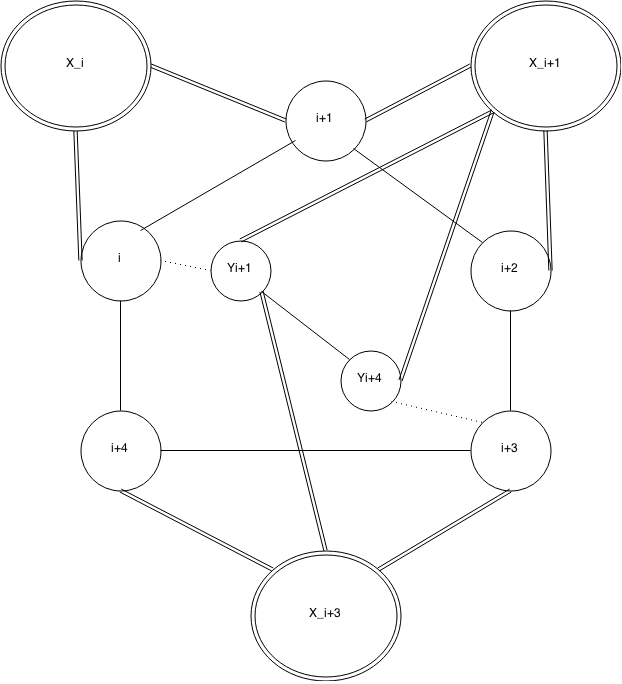
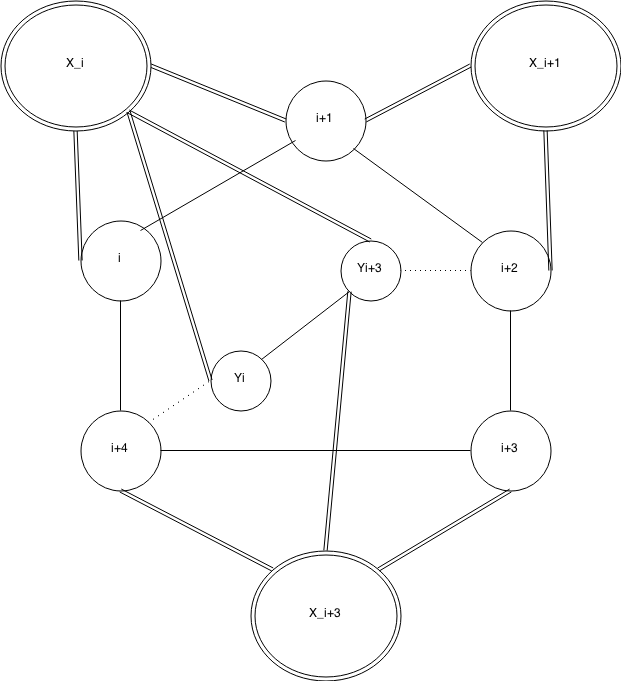
Finished off all the cases

diff --git a/latex/CoK4-Line-Graph-Cases.tex b/latex/CoK4-Line-Graph-Cases.tex
@@ -52,7 +52,7 @@ All the cases for $(\overline{K_4})$-free line graphs with $Y_i$ vertices
 
 
 \section{Notation}\label{sec:intro}
-Assume $G$ is $\overline{K_4}$-free line graph. Let $X_i$ denote the set of $2$-vertices on vertices $i,i+1$ of a $C_5$ and $x_i$ denote some vertex $\in X_i$. Let $Y$ denote the set of $4$-vertex and $Y_i$ denote the set of $4$-vertices on vertices $i, i+1,i+2,i+3$. The following Lemmas were already proven.
+Assume $G$ is $\overline{K_4}$-free line graph which contains an induced $C_5$. Let $X_i$ denote the set of $2$-vertices on vertices $i,i+1$ of a $C_5$ and $x_i$ denote some vertex $\in X_i$. Let $Y$ denote the set of $4$-vertex and $Y_i$ denote the set of $4$-vertices on vertices $i, i+1,i+2,i+3$. The following Lemmas were already proven.
 
 \begin{Lemma}\label{lem:c5-4vertex-bounded}
 $|Y_i| \leq 1$
@@ -90,12 +90,12 @@ If only $X_i \neq \phi,\; X_{i+2} \neq \phi,\; X_{i+3} \neq \phi$ then $ \omega(
 \begin{Observation}\label{obs:xi-g}
 If $|X_i| > |X_j| \geq |X_\ell| \geq 3$ then $X_j \cup X_\ell$ can be colored using at most $|X_i| - 1$ colors
 \end{Observation} 
-\noindent {\it Proof.} By Lemma \ref{lem:xi-clique} and provides at least $|X_i|$ colors for $G$. Since by Lemma \ref{lem:2xi-cojoins-xj} no vertex $\in X_j$ can have two neighbors $\in X_i$ and cannot share a neighbor with another vertex $\in X_j$. By Lemma \ref{lem:xi-neighbor-adjacent} there may be $C_3$ but no $P_3$ contain in $X_i \cup X_j \cup X_\ell$ Let $x_j,_a$ denote a vertex from $X_j,\; a \in {0, 1,..|X_j|}$, $x_i,_a$ denote a vertex from $X_i,\; a \in {0, 1,.., |X_i}$ and let $x_\ell,_a$ denote a vertex from $X_\ell, \; a \in {0, 1,.., |X_\ell|}$. Assume that $x_i,_ax_j,_a \in E,\; x_i,_ax_\ell,_a \in E,\;$ and $ x_j,_ax_\ell,_a \in E$. Can color $x_\ell,_a$ with $x_i,_{b},\; b = (a +1) mod (|X_i| - 1)$ and can color $x_j,_a$ with $x_i,_{b},\; b = a+2 mod(|X_i| - 1)$.  $X_j \cup X_\ell$ was colored with $|X_i| - 1$ colors.
+\noindent {\it Proof.} By Lemma \ref{lem:xi-clique} and provides at least $|X_i|$ colors for $G$. Since by Lemma \ref{lem:2xi-cojoins-xj} no vertex $\in X_j$ can have two neighbors $\in X_i$ and cannot share a neighbor $\in X_i$ with another vertex $\in X_j$. By Lemma \ref{lem:xi-neighbor-adjacent} $X_i \cup X_j \cup X_\ell$ cannot contain an induced $P_3$. Let $x_j,_a$ denote a vertex from $X_j,\; a \in {0, 1,..|X_j|}$, $x_i,_a$ denote a vertex from $X_i,\; a \in {0, 1,.., |X_i}$ and let $x_\ell,_a$ denote a vertex from $X_\ell, \; a \in {0, 1,.., |X_\ell|}$. Assume that $x_i,_ax_j,_a \in E,\; x_i,_ax_\ell,_a \in E,\;$ and $ x_j,_ax_\ell,_a \in E$. $x_\ell,_a$ can a color with $x_i,_{b},\; b = (a +1) mod (|X_i| - 1)$ and $x_j,_a$ share a color with $x_i,_{b},\; b = a+2 mod(|X_i| - 1)$.  $X_j \cup X_\ell$ was colored with $|X_i| - 1$ colors.
 
 \begin{Observation}\label{obs:all-equal}
 If $|X_i| = |X_j| = |X_\ell| \geq 3$ then $X_j \cup X_i$ can be colored using at most $|X_i|$ colors
 \end{Observation}
-\noindent {\it Proof.} By Lemma \ref{lem:xi-clique} and provides at least $|X_i|$ colors for $G$. Since by Lemma \ref{lem:2xi-cojoins-xj} no vertex $\in X_j$ can have two neighbors $\in X_i$ and cannot share a neighbor with another vertex $\in X_j$. By Lemma \ref{lem:xi-neighbor-adjacent} there $X_i \cup X_j \cup X_\ell$ cannot contain an induced $P_3$. Let $x_j,_a$ denote a vertex from $X_j,\; a \in {0, 1,..|X_j|}$, $x_i,_a$ denote a vertex from $X_i,\; a \in {0, 1,.., |X_i}$ and let $x_\ell,_a$ denote a vertex from $X_\ell, \; a \in {0, 1,.., |X_\ell|}$. Assume that $x_i,_ax_j,_a \in E,\; x_i,_ax_\ell,_a \in E,\;$ and $ x_j,_ax_\ell,_a \in E$. Can color $x_\ell,_a$ with $x_i,_{b},\; b = (a +1) mod (|X_i|)$ and can color $x_j,_a$ with $x_i,_{b},\; b = a+2 mod(|X_i|)$.  $X_j \cup X_\ell$ was colored with $|X_i|$ colors.
+\noindent {\it Proof.} By Lemma \ref{lem:xi-clique} and provides at least $|X_i|$ colors for $G$. Since by Lemma \ref{lem:2xi-cojoins-xj} no vertex $\in X_j$ can have two neighbors $\in X_i$ and cannot share a neighbor $\in X_i$ with another vertex $\in X_j$. By Lemma \ref{lem:xi-neighbor-adjacent} $X_i \cup X_j \cup X_\ell$ cannot contain an induced $P_3$. Let $x_j,_a$ denote a vertex from $X_j,\; a \in {0, 1,..|X_j|}$, $x_i,_a$ denote a vertex from $X_i,\; a \in {0, 1,.., |X_i}$ and let $x_\ell,_a$ denote a vertex from $X_\ell, \; a \in {0, 1,.., |X_\ell|}$. Assume that $x_i,_ax_j,_a \in E,\; x_i,_ax_\ell,_a \in E,\;$ and $ x_j,_ax_\ell,_a \in E$. Can color $x_\ell,_a$ with $x_i,_{b},\; b = (a +1) mod (|X_i|)$ and can color $x_j,_a$ with $x_i,_{b},\; b = a+2 mod(|X_i|)$.  $X_j \cup X_\ell$ was colored with $|X_i|$ colors.
 
 \begin{Observation}\label{obs:xi-e-g}
 If $|X_i| = |X_j| > |X_\ell| \geq 3$ then $X_j$  can be colored using $|X_i|$ colors and $X_\ell$ can be colored using at most $|X_i| - 1$ colors.
@@ -103,7 +103,7 @@ If $|X_i| = |X_j| > |X_\ell| \geq 3$ then $X_j$  can be colored using $|X_i|$ co
 \noindent {\it Proof.} By Lemma \ref{lem:xi-clique} and provides at least $|X_i|$ colors for $G$. Since by Lemma \ref{lem:2xi-cojoins-xj} no vertex $\in X_j$ can have two neighbors $\in X_i$ and cannot share a neighbor with with another vertex $\in X_j$. By Lemma \ref{lem:xi-neighbor-adjacent} there $X_i \cup X_j \cup X_\ell$ cannot contain an induced $P_3$. Let $x_j,_a$ denote a vertex from $X_j,\; a \in {0, 1,..|X_j|}$, $x_i,_a$ denote a vertex from $X_i,\; a \in {0, 1,.., |X_i}$ and let $x_\ell,_a$ denote a vertex from $X_\ell, \; a \in {0, 1,.., |X_\ell|}$. Assume that $x_i,_ax_j,_a \in E,\; x_i,_ax_\ell,_a \in E,\;$ and $ x_j,_ax_\ell,_a \in E$. $x_\ell,_a$ can share a color with $x_i,_{b},\; b = (a +1) mod (|X_i|)$ and $x_j,_a$ share a color with $x_i,_{b},\; b = a+2 mod(|X_i|)$.  Since $|X_\ell| < |X_i|$ then $x_i,_0$ shares no color with a vertex $\in X_\ell$ so $X_\ell$ was colored with $|X_i| - (|X_i| - |X_\ell|)$ colors. $X_j$ was colored using $|X_i|$ colors. 
 
 \begin{Observation}\label{obs:clique-chi}
-If $\omege(G - Y) = \omega(G) - x, x \in {1,2}$ and $\chi(Y) = x$ then $\chi(G) = \omega(G)$.
+If $\omega(G - Y) = \omega(G) - x, x \in {1,2}$ and $\chi(Y) = x$ then $\chi(G) = \omega(G)$.
 \end{Observation}
 \noindent {\it Proof.} By Lemma \ref{lem:coloring-xi-xi2-xi3} $G - Y$ can be colored with $\omega(G - Y)$ colors. If $\omega(G - Y) = \omega(G) - x$ and $\chi(Y) = x$ then $ \chi(G) = \chi(G - Y) + \chi(Y) = (\omega(G - Y) - x)  + x$ making $\chi(G) = \omega(G)$.
 
@@ -117,23 +117,23 @@ $X_i \; \circled{0} \; Y_{i+1} \cup Y_{i+2} \cup Y_{i+4}$
 \end{Observation}
 \noindent {\it Proof.} Suppose $x_iy_{i+1} \in E$ then there is a $claw (y_{i+1}x_i, y_{i+1}i+2,y_{i+1}i+4)$. Suppose $x_iy_{i+4} \in E$ then there is a $claw (y_{i+4}i+4, y_{i+4}i+2, y_{i+4}x_i)$. Suppose $x_iy_{i+2} \in E$ then there is a $claw (y_{i+2}i+2, y_{i+2}i+4, y_{i+2}x_i)$.
 
-For the following assume $|X_i| \geq 3,\, j \in {0,1,2,3,4}$ otherwise $d(x_i) \leq 1 + 2 + 2$ since by Lemma \ref{lem:xi-neighbor-adjacent} $x_i$ can have one neighbor in each $X_j,\; i+j$, and by Observation \ref{obs:xi-cojoins-yi} $x_i$ has two nieghbors who are a $4$-vertex and has one neighbor $\in X_i$. By Lemma \ref{lem:three-consecutive-xi} the case with the most $|X_i| \geq 3$ is when $X_i \neq \phi,\; X_{i+1} \neq \phi,\; X_{i+2} = \phi,\; X_{i+3} \neq \phi$ and $X_{i+4} = \phi$. In this case $d(y_{i+2}) \leq 2 + 4$ since by Lemma \ref{lem:yi-cojoin-yi1} is adajacent to $y_{i}$ and $y_{i+4}$ and by Observation \ref{obs:xi-cojoins-yi} $y_{i+2} \; \circled{0} X_i \cup X_{i+1} \cup X_{i+3}$. Since assuming $\omega (G) \geq 10$ then can dis-regard $y_{i+2}$.
+For the following assume $|X_i| \geq 3,\, i \in {0,1,2,3,4}$ otherwise $d(x_i) \leq 1 + 2 + 2$ since by Lemma \ref{lem:xi-neighbor-adjacent} $x_i$ can have one neighbor $\in X_j,\; i \neq j $, and by Observation \ref{obs:xi-cojoins-yi} $x_i$ has two neighbors who are a $4$-vertex and has one neighbor $\in X_i$. By Lemma \ref{lem:three-consecutive-xi} the case with the most $|X_i| \geq 3$ is when $X_i \neq \phi,\; X_{i+1} \neq \phi,\; X_{i+2} = \phi,\; X_{i+3} \neq \phi$ and $X_{i+4} = \phi$. In this case $d(y_{i+2}) \leq 2 + 4$ since by Lemma \ref{lem:yi-cojoins-yi1} is adajacent to $y_{i}$ and $y_{i+4}$ and by Observation \ref{obs:xi-cojoins-yi} $y_{i+2} \; \circled{0} X_i \cup X_{i+1} \cup X_{i+3}$. Since assuming $\omega (G) \geq 10$ then can dis-regard $y_{i+2}$.
 
 \begin{Observation}\label{obs:four-yi} 
 $|Y_i| = |Y_{i+1}| = |Y_{i+3}| = |Y_{i+4} =  1$
 \end{Observation}
 \begin{minipage}{0.5\textwidth}% adapt widths of minipages to your needs
-	\noindent {\it Proof.} By Lemmas \ref{lem:yi-cojoins-yi1} and \ref{lem:yi-joins-yi2} $\chi (Y) = 2$ and Observation \ref{obs:xi-joins-yi} $\omega(G - Y) = \omega(G) - 2$. Since $\omega(G - Y) = \omega(G) - 2 $ and $\chi(Y) = 2$ then by Observation \ref{obs:clique-chi} $\chi(G) = \omega(G)$.
+	\noindent {\it Proof.} By Lemmas \ref{lem:yi-cojoins-yi1} and \ref{lem:yi-joins-yi2} $\chi (Y) = 2$ and by Observation \ref{obs:xi-joins-yi} $\omega(G - Y) = \omega(G) - 2$. Since $\omega(G - Y) = \omega(G) - 2 $ and $\chi(Y) = 2$ then by Observation \ref{obs:clique-chi} $\chi(G) = \omega(G)$.
 \end{minipage}
 \hfill
 \begin{minipage}{0.5\textwidth}\raggedleft
 	\includegraphics[width=\linewidth]{Base.png}
 \end{minipage}
+\clearpage
 
 \begin{Observation}\label{obs:yi1-yi3-yi4} 
 $|Y_{i+1}| = |Y_{i+3}| =  |Y_{i+4}| = 1$ and $|Y_{i}| = 0$
 \end{Observation}
-
 \begin{minipage}{0.5\textwidth}% adapt widths of minipages to your needs
 	\noindent {\it Proof.} By Lemmas \ref{lem:yi-cojoins-yi1} and \ref{lem:yi-joins-yi2} $\chi(Y) = 2$. There are two cases to examine.
 	\begin{itemize}
@@ -144,7 +144,7 @@ $|Y_{i+1}| = |Y_{i+3}| =  |Y_{i+4}| = 1$ and $|Y_{i}| = 0$
 	\item[(ii)]
 		$|X_i| > |X_{i+1}$ and $|X_{i+3}| > |X_{i+1}|$
 
-		By Observation \ref{obs:xi-joins-yi} $\omega(G - Y) = \omega(G) - 1$. $|X_{i+1}| + 2 + 1 = \omega(G) (X_{i+1},i+1,i+2, y_{i+3})$. By Observation \ref{obs:xj-g} both $X_{i+1} \cup X_{i+3}$ can be colored using $|X_{i}| - 1$ colors with a reserve color $k$ from $X_{i}$. Vertices $i+2 \cup i+4$ can use color $k$, vertex $i+3$ can share color with $i+1$, vertex $y_{i+4}$ can share a color with $y_{i+3}$ by Lemma \ref{yi-cojoins-yi1} , and vertex $y_{i+1}$ can share a color with $i$.  Then $\chi(G) = \omega(G)$.
+		By Observation \ref{obs:xi-joins-yi} $\omega(G - Y) = \omega(G) - 1$ and $|X_{i+1}| + 2 + 1 = \omega(G) (X_{i+1},i+1,i+2, y_{i+3})$. By Observation \ref{obs:xi-g} both $X_{i+1} \cup X_{i+3}$ can be colored using $|X_{i}| - 1$ colors with a reserve color $k$ from $X_{i}$. Vertices $i+2 \cup i+4$ can use color $k$, vertex $i+3$ can share color with $i+1$, vertex $y_{i+4}$ can share a color with $y_{i+3}$ by Lemma \ref{lem:yi-cojoins-yi1} , and vertex $y_{i+1}$ can share a color with $i$.  Then $\chi(G) = \omega(G)$.
 	\end{itemize}
 \end{minipage}
 \hfill
@@ -164,6 +164,7 @@ $ |Y_{i}| = |Y_{i+1}| = |Y_{i+3}| = 1$ and $|Y_{i+4}| = 0$
 \begin{minipage}{0.5\textwidth}\raggedleft
 	\includegraphics[width=\linewidth]{Yi-Yi1-Yi3.png}
 \end{minipage}
+\clearpage
 
 
 \begin{Observation}\label{obs:yi-yi3-yi4} 
@@ -173,37 +174,25 @@ $|Y_{i}| = |Y_{i+3}| = |Y_{i+4}| = 1$ and $|Y_{i+1}| = 0$
 	By Lemmas \ref{lem:yi-cojoins-yi1} and \ref{lem:yi-joins-yi2} $\chi(Y) = 2$. There are three cases to examine
 	\begin{itemize}
 	\item[(i)]
-		$|X_i| \geq |X_{i+1}|$ and $|X_i| \geq |X_{i+3}|$.
+		$|X_i| \geq |X_{i+1}| \geq |X_{i+3}|$.
 
-		$\omega(G - Y) = \omega(G) - 2$ and $\chi(G) = \omega(G)$
+		By Observation \ref{obs:xi-joins-yi} $\omega(G - Y) = \omega(G) - 2$. Since $\omega(G - Y) = \omega(G) - 2$ and $\chi(Y) = 2$ then by Observation \ref{obs:clique-chi} $\chi(G) = \omega(G)$. 
 	\item[(ii)]
-		$|X_i| < |X_{i+3}| \leq |X_{i+1}$
+		$|X_{i+1}| \geq |X_{i+3}| > |X_i|$
 
-		$\omega(G - Y) = \omega(G) - 1$. $|X_{i+1}| + 2 + 1 = \omega(G) (X_{i+1}, i+1, i+2, y_{i+4})$. A vertex $a \in X_i$ and a vertex $b \in X_{i+3}$ can share a color with $y_{i+4}$. By Observation \ref{obs:xj-uses-xi-one} and that $b \in |X_{i+3}|$ was colored then $X_{i} \cup X_{i+3}$ can be colored with $|X_{i+1}| -1$ colors leaving a color $k$ available from $X_{i+1}$. Vertex $i+3$ can share a color with $i+1$, vertex $i$ can share a color with $i+2$. Vertices $i+4$ and $y_{i}$ can use color $k$ since $y_{i} \cup i+4 \; \circled{0} X_i$ and $y_{i}i+4 \not \in E$. Then $G$ was colored with $\omega(G)$ colors.
+		By Observation \ref{obs:xi-joins-yi} $\omega(G - Y) = \omega(G) - 1$ and $|X_{i+1}| + 2 + 1 = \omega(G) (X_{i+1}, i+1, i+2, y_{i+4})$. A vertex $a \in X_i$ and a vertex $b \in X_{i+3}$ can share a color with $y_{i+4}$ by Observation \ref{obs:xi-cojoins-yi}. By Observation \ref{obs:xi-g} and that $b \in |X_{i+3}|$ was colored then $X_{i} \cup X_{i+3}$ can be colored with $|X_{i+1}| - 1$ colors leaving a reserve color $k \in X_{i+1}$ . Vertex $i+3$ can share a color with $i+1$, vertex $i$ can share a color with $i+2$. Vertices $i+4 \cup y_{i}$ can use color $k$ by Observation \ref{obs:xi-cojoins-yi}. $\chi(G) = \omega(G)$.
 
 	\item[(iii)]
-		$|X_i| < |X_{i+1}| < |X_{i+3}$
+		$|X_{i+3}| >  |X_{i+1}| \geq |X_i|$
 
-		$\omega(G - Y) = \omega(G) - 1$. $|X_{i+3} + 2 + 1 = \omega(G) (X_{i+3}, i+3, i+4, y_{i+3})$. By Observation \ref{obs:xj-uses-xi-one} $X_i \cup X_{i+1}$ can be colored using $|X_{i+3}| -1 $ colors leaving a color $k$ available from $X_{i+3}$. Vertex $y_{i+4}$ can share a color with $y_{i+3}$, vertex $y_i$ can share a color with $i+4$, vertex $i+1$ can share a color with $i+3$, and vertices $i \cup i+2$ can use color $k$. Then $G$ was colored with $\omega(G)$ colors. 
+		By Observation \ref{obs:xi-joins-yi} $\omega(G - Y) = \omega(G) - 1$ and $|X_{i+3} + 2 + 1 = \omega(G) (X_{i+3}, i+3, i+4, y_{i+3})$. By Observation \ref{obs:xi-g} $X_i \cup X_{i+1}$ can be colored using $|X_{i+3}| -1 $ colors leaving a reserve color $k \in X_{i+3}$. Vertex $y_{i+4}$ can share a color with $y_{i+3}$ by Lemma \ref{lem:yi-cojoins-yi1}, vertex $y_i$ can share a color with $i+4$, vertex $i+1$ can share a color with $i+3$, and vertices $i \cup i+2$ can use color $k$. $\chi(G) = \omega(G)$. 
 	\end{itemize}
 \end{minipage}
 \hfill
 \begin{minipage}{0.5\textwidth}\raggedleft
 	\includegraphics[width=\linewidth]{Yi-Yi3-Yi4.png}
 \end{minipage}
-
-
-\begin{Observation}\label{obs:yi-yi1-yi4} 
-$|Y_{i}| = |Y_{i+1}| = |Y_{i+4}| = 1$ and $|Y_{i+3}| = 0$
-\end{Observation}
-
-\begin{minipage}{0.5\textwidth}% adapt widths of minipages to your needs
-	\noindent {\it Proof.} By symmetry this case is equivalent to Case \ref{obs:yi-yi3-yi4}.
-\end{minipage}
-\hfill
-\begin{minipage}{0.5\textwidth}\raggedleft
-	\includegraphics[width=\linewidth]{Yi-Yi1-Yi3.png}
-\end{minipage}
+\clearpage
 
 
 \begin{Observation}\label{obs:yi1-yi4} 
@@ -211,33 +200,37 @@ $|Y_{i+1}| = |Y_{i+4}| = 1$ and $|Y_{i}| = |Y_{i+3}| = 0$
 \end{Observation}
 
 \begin{minipage}{0.5\textwidth}% adapt widths of minipages to your needs
-	\noindent {\it Proof.} There are Four cases to examine.
+	\noindent {\it Proof.} By Lemmas \ref{lem:yi-cojoins-yi1} and \ref{lem:yi-joins-yi2} $\chi(Y) = 2$. There are Four cases to examine.
 	\begin{itemize}
 	\item[(i)]
 		$|X_{i+1}| \geq |X_i| \geq |X_{i+3}|$
 
-		$\omega(G - Y) = \omega(G) - 2$ and $\chi(G) = \omega(G)$.
+		By Observation \ref{obs:xi-joins-yi} $\omega(G - Y) = \omega(G) - 2$. Since $\omega(G - Y) = \omega(G) - 2$ and $\chi(Y) = 2$ then by Observation \ref{obs:clique-chi} $\chi(G) = \omega(G)$. 
 
 	\item[(ii)]
 		$|X_{i+1}| \geq |X_i| - 1 \geq |X_{i+3}|$
 
-		$\omega(G - Y) = \omega(G) - 1$. $|X_{i+1} + 2 + 1 = \omega(G) (X_{i+1}, i+1, i+2, y_{i+4})$. A vertex $\in X_i$ and a vertex $\in X_{i+3}$ can share a color with $y_{i+4}$. By Observation \ref{obs:xi-g-xj-g-xl} $X_i \cup X_{i+3}$ can be colored with $|X_{i+1}|$ colors with $X_{i+3}$ being colored with $|X_{i+1}| -1 $ colors leaving a color $k$. Vertex $i$ can use color $k$, vertex $i+2$ can share a color with $i+2$ and vertex $i+3$ can share a color with $i+1$. Then $G$ was colored with $\omega(G)$ colors.
+		By Observation \ref{obs:xi-joins-yi} $\omega(G - Y) = \omega(G) - 1$ and $|X_{i+1} + 2 + 1 = \omega(G) (X_{i+1}, i+1, i+2, y_{i+4})$. A vertex $\in X_i$ and a vertex $\in X_{i+3}$ can share a color with $y_{i+4}$ by Observation \ref{obs:xi-joins-yi}. By Observation \ref{obs:xi-g} $X_i \cup X_{i+3}$ can be colored with $|X_{i+1}| - 1$ colors reserving a color $k \in X_{i+1}$. Vertex $i$ can use color $k$, vertex $i+4$ can share a color with $i+2$ and vertex $i+3$ can share a color with $i+1$. $\chi(G) = \omega(G)$.
+		%done
 
 	\item[(iii)]
-		$|X_{i+3} \geq |X_{i}| > X_{i+1}$
+		$|X_{i+3}| \geq |X_{i}| > |X_{i+1}|$
 
-		$\omega(G - Y) = \omega(G) - 1$. $|X_{i+3}| + 2 +1 = \omega(G) (X_{i+3}, i+3, i+4, y_{i+1})$. Vertices $y_{i+4}$ and $x_i \in X_i$ can share a color with $i+3$. $X_{i} \cup X_{i+1}$ can be colored using $|X_{i+3}|$ with a reserve color $k$ from $X_{i+3}$ since $|X_{i+3}| > |X_{i+1}|$ and $|X_{i+3}| > |X_i| - 1$. Vertex $i$ can share a color with $y_{i+1}$, vertex $i+1$ can share a color with $i+4$ and vertex $i+2$ use color $k$. Then $G$ was colored with $\omega(G)$ colors.
+		By Observation \ref{obs:xi-joins-yi} $\omega(G - Y) = \omega(G) - 1$ and $|X_{i+3}| + 2 + 1 = \omega(G) (X_{i+3}, i+3, i+4, y_{i+1})$. Vertices $y_{i+4} \cup x_i \in X_i$ can share a color with $i+3$ by Observation \ref{obs:xi-cojoins-yi}. By Observation \ref{obs:xi-g} $X_{i} \cup X_{i+1}$ can be colored using $|X_{i+3}| - 1$ reserving color $k \in X_{i+3}$ . Vertex $i$ can share a color with $y_{i+1}$ by Observation \ref{obs:xi-cojoins-yi}, vertex $i+1$ can share a color with $i+4$ and vertex $i+2$ use color $k$. $\chi(G) = \omega(G)$.
 
-	\item[(iv)]
-		$|X_{i}| > |X_{i+1}| - 1 \geq |X_{i+3}|$
-
-		$\omega(G - Y) = \omega(G)$. $|X_{i} +2 = \omega(G) (X_{i}, i, i+1)$. By Observation \ref{obs:xi-g-xj-g-xl} $X_i|$ can be colored with $|X_i| - 1$ colors leaving a reserve color $k$ from $X_{i}$. By Observation \ref{obs:xi-g-xj-g-xl} $|X_{i+1}|$ can be colored with $|X_i| -2 $ colors leave reserve colors $k$ and $k_2$ from $X_{i}$. Vertex $y_{i+1}$ can share a color with $i$, vertex $y_{i+4}$ can use color $k_2$, vertices $y_{i+4} \cup i+3$ can use color $k$, vertex $i+2$ can use color $k_2$ and vertex $i+4$ can share a color with $i+1$. Then $G$ was colored with $\omega(G)$ colors.
 	\end{itemize}
 \end{minipage}
 \hfill
 \begin{minipage}{0.5\textwidth}\raggedleft
 	\includegraphics[width=\linewidth]{Yi1-Yi4.png}
+	\begin{itemize}
+		\item[(iv)]
+			$|X_{i}| > |X_{i+1}| - 1 \geq |X_{i+3}|$
+
+			By Observation \ref{obs:xi-joins-yi} $\omega(G - Y) = \omega(G)$ and $|X_{i} +2 = \omega(G) (X_{i}, i, i+1)$. By Observation \ref{obs:xi-g} $X_{i+1} \cup X_{i+3}$ can be colored with $|X_i| - 1$ colors reserving color $k \in X_{i}$ but since $|X_{i}| > |X_{i+1}$, $|X_{i+1}|$ can be colored with $|X_i| -2 $ colors reserving colors $k$ and $k_2$ from $X_{i}$. Vertex $y_{i+1}$ can share a color with $i$, vertex $y_{i+4}$ can use color $k_2$ by Observation \ref{obs:xi-cojoins-yi}, vertices $y_{i+4} \cup i+3$ can use color $k$ by Observation \ref{obs:xi-cojoins-yi}, vertex $i+2$ can share a color with $i$ and vertex $i+4$ can share a color with $i+1$. $\chi(G) = \omega(G)$.
+	\end{itemize}
 \end{minipage}
+\clearpage
 
 
 
@@ -259,23 +252,24 @@ $|Y_{i}| = |Y_{i+4}| = 1$ and $|Y_{i+1}| = |Y_{i+3}| = 0$
 \end{Observation}
 
 \begin{minipage}{0.5\textwidth}% adapt widths of minipages to your needs
-	\noindent {\it Proof.} There are two cases to examine
+	\noindent {\it Proof.} By Lemmas \ref{lem:yi-cojoins-yi1} and \ref{lem:yi-joins-yi2} $\chi(Y) = 1$. There are two cases to examine
 	\begin{itemize}
 	\item[(i)]
 	$|X_{i}| \geq  |X_{i+1}| \geq |X_{i+3}|$
 
-	$\omega(G - Y) = \omega(G) - 1$. $y_i$ and $y_{i+4}$ can share a color hence $\varphi(G - Y) = \varphi(G) - 1$. By symmetry $|X_{i+1}| \geq  |X_{i}| \geq |X_{i+3}|$ is the same case.
+	By Observation \ref{obs:xi-joins-yi} $\omega(G - Y) = \omega(G) - 1$. Since $\omega(G - Y) = \omega(G) - 1$ and $\chi(Y) = 1$ then by Observation \ref{obs:clique-chi} $\chi(G) = \omega(G)$.
 
 	\item[(ii)]
 	$|X_{i+3}| > |X_{i}| \geq |X_{i+1}|$
 
-	$\omega(G - Y) = \omega(G)$. $|X_{i+3} +2 =\omega(G) (X_{i+3}, i+3, i+4$ By Observation \ref{obs:xi-g-xj-g-xl} $i+3$ can share colors with $y_{i+4}$ and a vertex $\in X_i$ and $i+4$ can share colors with $y_i$ and a vertex $\in X_{i+1}$. By Observation \ref{obs:xi-g-xj-g-xl} $X_i \cup X_{i+1}$ can be colored using at most $|X_{i+3} - 2$ since one vertex $\in X_i \cup X_{i+1}$ was already colored, reserving colors $k$ and $k_2$ from $X_{i+3}$. Vertices $i \cup i+2$ can use color $k$ and vertex $i+2$ can use color $k_2$. Then $G$ was colored with $\omega(G)$ colors.
+	By Observation \ref{obs:xi-joins-yi} $\omega(G - Y) = \omega(G)$ and $|X_{i+3} + 2 = \omega(G) (X_{i+3}, i+3, i+4)$. $y_i \cup a \in X_{i+1}$ can share a color with $i+4$ and $y_{i+4} \cup b \in X_{i+1}$ can share a color with $i+3$ by Observation \ref{obs:xi-cojoins-yi}. By Observation \ref{obs:xi-g} $X_i \cup X_{i+1}$ can be colored using at most $|X_{i+3}| - 2$ since $a \cup b$ were already colored, reserving colors $k$ and $k_2$ from $X_{i+3}$. Vertices $i \cup i+2$ can use color $k$ and vertex $i+2$ can use color $k_2$. $\chi(G) = \omega(G)$.
 	\end{itemize}
 \end{minipage}
 \hfill
 \begin{minipage}{0.5\textwidth}\raggedleft
 	\includegraphics[width=\linewidth]{Yi-Yi4.png}
 \end{minipage}
+\clearpage
 
 
 \begin{Observation}\label{obs:yi-yi1}
@@ -283,7 +277,7 @@ $|Y_{i}| = |Y_{i+1}| = 1$ and $|Y_{i+3}| = |Y_{i+4}| = 0$
 \end{Observation}
 
 \begin{minipage}{0.5\textwidth}% adapt widths of minipages to your needs
-	\noindent {\it Proof.} There is only one cases to examine since $\omega(G - Y) = \omega(G) - 1 $. $y_{i} \cup y_{i+4}$ can share a color hence $\varphi(G - Y) = \varphi(G) - 1$.
+	\noindent {\it Proof.} There is only one case to examine since by Observation \ref{obs:xi-joins-yi} $\omega(G - Y) = \omega(G) - 1 $. By Lemmas \ref{lem:yi-cojoins-yi1} and \ref{lem:yi-joins-yi2}  $\chi(Y) = 1$. Since $\omega(G - Y) = \omega(G) - 1$ and $\chi(Y) =1 $ then by Observation \ref{obs:clique-chi} $\chi(G) = \omega(G)$.
 \end{minipage}
 \hfill
 \begin{minipage}{0.5\textwidth}\raggedleft
@@ -297,29 +291,31 @@ $|Y_{i+3}| = |Y_{i+4}| = 1$ and $|Y_{i}| = |Y_{i+1}| = 0$
 \end{Observation}
 
 \begin{minipage}{0.5\textwidth}% adapt widths of minipages to your needs
-	\noindent {\it Proof.} There are is only one cases to examine since $\omega(G - Y) = \omega(G) - 1 $. $y_{i} \cup y_{i+4}$ can share a color hence $\varphi(G - Y) = \varphi(G) - 1$.
+	\noindent {\it Proof.} There is only one case to examine since by Observation \ref{obs:xi-joins-yi} $\omega(G - Y) = \omega(G) - 1 $. By Lemmas \ref{lem:yi-cojoins-yi1} and \ref{lem:yi-joins-yi2}  $\chi(Y) = 1$. Since $\omega(G - Y) = \omega(G) - 1$ and $\chi(Y) =1 $ then by Observation \ref{obs:clique-chi} $\chi(G) = \omega(G)$.
 \end{minipage}
 \hfill
 \begin{minipage}{0.5\textwidth}\raggedleft
 	\includegraphics[width=\linewidth]{Yi3-Yi4.png}
 \end{minipage}
+\clearpage
+
 
 \begin{Observation}\label{obs:yi1}
 $|Y_{i+1}| = 1$ and $|Y_i| = |Y_{i+3}| = |Y_{i+4}| = 0$
 \end{Observation}
 \begin{minipage}{0.5\textwidth}% adapt widths of minipages to your needs
-	\noindent {\it Proof} There are two cases to examine
+	\noindent {\it Proof} Since $|Y| = 1$ then $\chi(Y) = 1$. There are two cases to examine
 
 	\begin{itemize}
 	\item[(i)]
 		$|X_i| \geq |X_{i+3}| \geq |X_{i+1}|$
 
-		$\omega(G - Y) = \omega(G) - 1$. $y_{i+1}$ can use the new color and hence $\varphi(G) = \omega(G)$. The same argument can be made for $|X_{i+3}| \geq |X_i| \geq |X_{i+1}|$ 
+		By Observation \ref{obs:xi-joins-yi} $\omega(G - Y) = \omega(G) - 1$.  Since $\omega(G - Y) = \omega(G) - 1$ and $\chi(Y) = 1$ then by Observation \ref{obs:clique-chi} $\chi(G) = \omega(G)$. The same argument can be made for $|X_{i+3}| \geq |X_i| \geq |X_{i+1}|$ 
 
 	\item[(ii)]
 		$|X_{i+1}| > |X_i| \geq |X_{i+3}|$
 
-		$\omega(G - Y) = \omega(G)$. $|X_{i+1}| +2 = \omega(G) (X_{i+1}, i+1,i+2)$. By Observation \ref{obs:xi-g-xj-g-xl} $X_{i} \cup X_{i+3}$ can be colored with $|X_{i+1}|$ colors reserving color $k$ from $X_{i+1}$. Vertex $y_i$ can be share a color with $i$, vertex $i+3$ can share a color with $i+1$ and vertices $i+2 \cup i+4$ can use color $k$. Then $G$ was colored with $\omega(G)$ colors.
+		By Observation \ref{obs:xi-cojoins-yi} $\omega(G - Y) = \omega(G)$ and $|X_{i+1}| + 2 = \omega(G) (X_{i+1}, i+1,i+2)$. By Observation \ref{obs:xi-g} $X_{i} \cup X_{i+3}$ can be colored with $|X_{i+1}| - 1$ colors reserving color $k \in X_{i+1}$ . Vertex $y_i$ can be share a color with $i$ by Observation, vertex $i+3$ can share a color with $i+1$ and vertices $i+2 \cup i+4$ can use color $k$. $\chi(G) = \omega(G)$.
 	\end{itemize}
 \end{minipage}
 \hfill
@@ -339,6 +335,7 @@ $|Y_{i+3}| = 1$ and $|Y_i| = |Y_{i+1}| = |Y_{i+4}| = 0$
 \begin{minipage}{0.5\textwidth}\raggedleft
 	\includegraphics[width=\linewidth]{Yi3.png}
 \end{minipage}
+\clearpage
 
 
 
@@ -347,26 +344,27 @@ $|Y_{i}| = 1$ and $|Y_{i+1}| = |Y_{i+3}| = |Y_{i+4}| = 0$
 \end{Observation}
 
 \begin{minipage}{0.5\textwidth}% adapt widths of minipages to your needs
-	\noindent {\it Proof} There are three cases to examine
+	\noindent {\it Proof} Since $|Y| = 1$ then $\chi(Y) = 1$. There are three cases to examine
 	\begin{itemize}
 		\item[(i)]
 			$|X_{i+1}| \geq |X_i| \geq |X_{i+3}|$
 
-			$\omega(G - Y) = \omega(G) - 1$. $y_{i}$ can use the new color and hence $\varphi(G) = \omega(G)$. 
+			By Observation \ref{obs:xi-joins-yi} $\omega(G - Y) = \omega(G) - 1$. Since $\omega(G - Y) = \omega(G) - 1$ and $\chi(Y) = 1$ then by Observation \ref{obs:clique-chi} $\chi(G) = \omega(G)$.
 		\item[(ii)]
 			$|X_{i}| \geq |X_{i+3}| > |X_{i+1}|$
 		
-			$\omega(G - Y) = \omega(G)$. $|X_i| + 2 = \omega(G) (X_i, i, i+1)$. $X_{i+3}$ can be colored with $|X_i|$ colors and $X_{i+1}$ can be colored with $|X_i| - 1$ colors reserving a color $k$ from $X_i$. Vertex $i+2$ can share a color with $i$, vertex $i+4$ can share a color with $i+1$, and vertices $y_{i+4} \cup i+3$ can use color $k$.  Then $G$ was colroed with $\omega(G)$ colors.
+			By Observation \ref{obs:xi-cojoins-yi} $\omega(G - Y) = \omega(G)$ and $|X_i| + 2 = \omega(G) (X_i, i, i+1)$. By Observation \ref{obs:xi-e-g} $X_{i+3}$ can be colored with $|X_i|$ colors and $X_{i+1}$ can be colored with $|X_i| - 1$ colors reserving a color $k \in X_i$. Vertex $i+2$ can share a color with $i$, vertex $i+4$ can share a color with $i+1$, and vertices $y_{i+4} \cup i+3$ can use color $k$ by Observation \ref{obs:xi-cojoins-yi}. $\chi(G) = \omega(G)$.
 		\item[(iii)]
 			$|X_{i+3}| > |X_{i+1}| \geq |X_{i}|$.
 
-			$\omega(G - Y) = \omega(G)$. $|X_{i+3} + 2 =\omega(G) (X_{i+3}, i+3, i+4)$. Vertex $y_{i+4}$ and a vertex $\in X_i$ can share a color with $i+3$. By Observation \ref{obs:xi-g-xj-g-xl} $X_{i+1} \cup X_{i}$ can be colored with $|X_{i+3}| - 1$ colors reserving color $k$ from $X_{i+3}$. Vertex $i+1$ can share a color with $i+4$, and vertices $i \cup i+2$ can share a color with $k$. Then $G$ was colored with $\omega(G)$ colors. 
+			By Observation \ref{obs:xi-cojoins-yi} $\omega(G - Y) = \omega(G)$ and $|X_{i+3} + 2 =\omega(G) (X_{i+3}, i+3, i+4)$. By Observation \ref{obs:xi-cojoins-yi} vertex $y_{i+4} \cup a \in X_i$ can share a color with $i+3$. By Observation \ref{obs:xi-g} $X_{i+1} \cup X_{i}$ can be colored with $|X_{i+3}| - 1$ colors reserving color $k \in X_{i+3}$. Vertex $i+1$ can share a color with $i+4$, and vertices $i \cup i+2$ can share a color with $k$. $\chi(G) = \omega(G)$.
 	\end{itemize}
 \end{minipage}
 \hfill
 \begin{minipage}{0.5\textwidth}\raggedleft
 	\includegraphics[width=\linewidth]{Yi.png}
 \end{minipage}
+\clearpage
 
 \begin{Observation}\label{obs:yi4}
 $|Y_{i+4}| = 1$ and $|Y_{i}| = |Y_{i+1}| = |Y_{i+3}| = 0$
